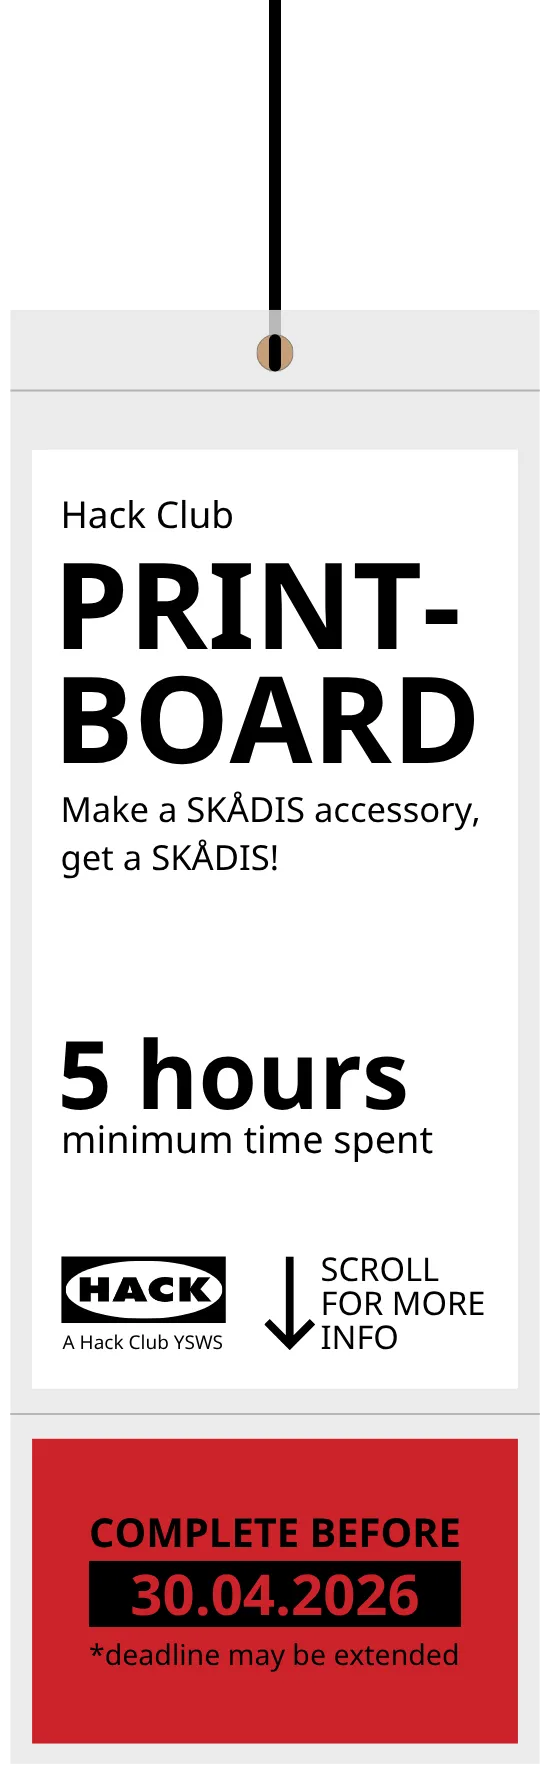
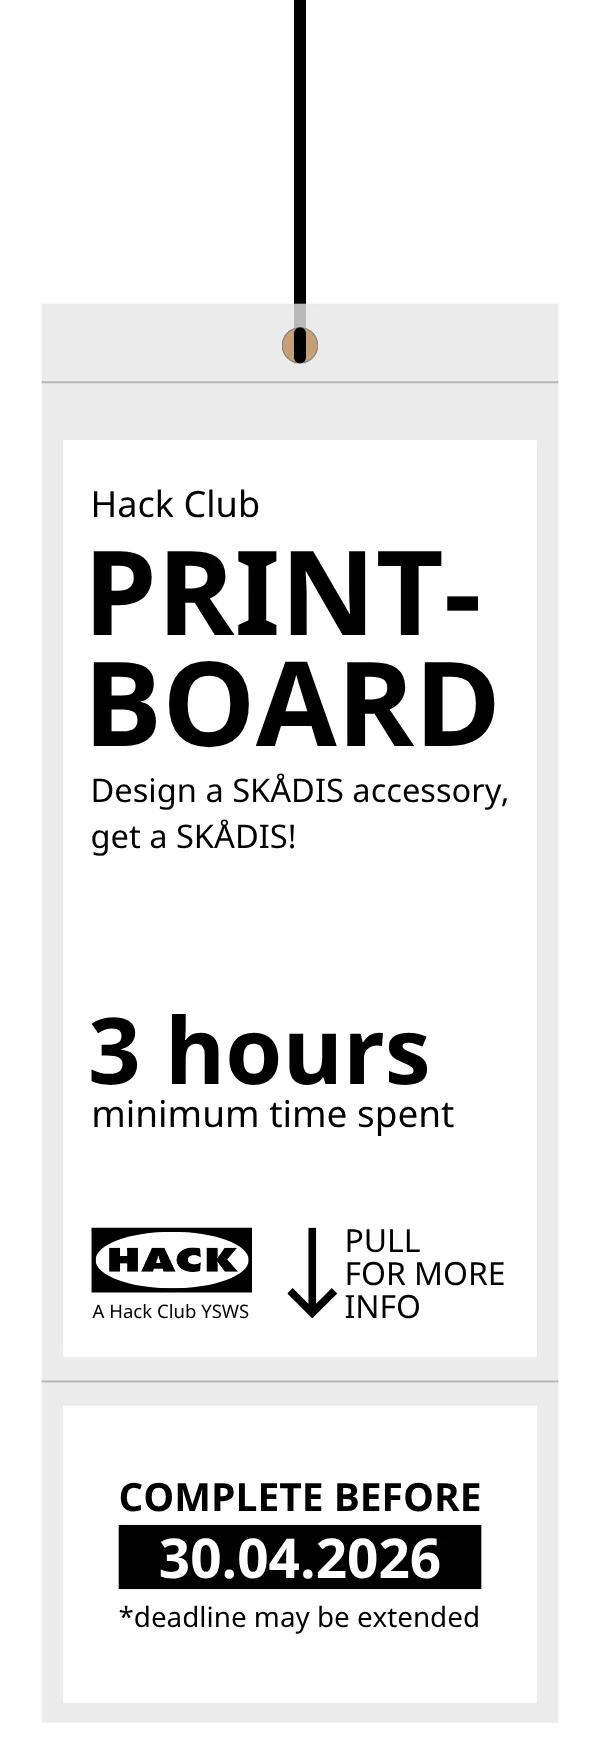
updated assets

diff --git a/home/style.css b/home/style.css
@@ -68,15 +68,15 @@ header{
 }
 
 #tag1 {
-    width: 100%;
-    margin-top: -90px;
+    width: 103%;
+    margin-top: -50px;
     display: block;
     cursor: pointer;
     transition: transform 0.2s ease;
 }
 
 #tag1:hover {
-    transform: translateY(15px);
+    transform: translateY(20px);
 }
 
 .right-container{
@@ -361,4 +361,39 @@ ol {
 #prizes:hover{
   content: url("Images/prizes2.webp");
 
+}
+
+
+
+
+
+#page-transition{
+  position: fixed;
+  top: -100vh;
+  left: 0;
+  width: 100%;
+  height: 100vh;
+  background: black; /* change color if you want */
+  z-index: 9999;
+  pointer-events: none;
+}
+
+/* covers the screen when leaving */
+.transition-enter{
+  animation: slideDown 0.6s forwards;
+}
+
+/* falls away when new page loads */
+.transition-exit{
+  animation: dropAway 0.7s forwards;
+}
+
+@keyframes slideDown{
+  from{ top:-100vh; }
+  to{ top:0; }
+}
+
+@keyframes dropAway{
+  from{ top:0; }
+  to{ top:100vh; }
 }
